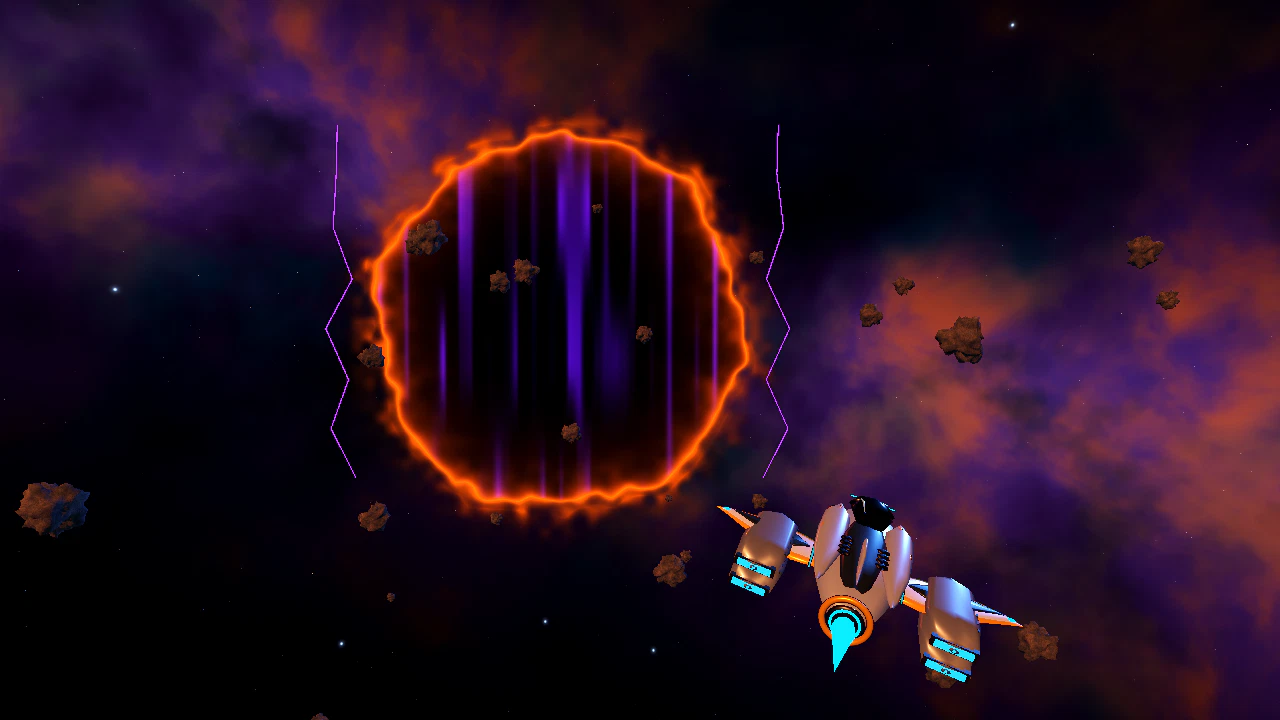
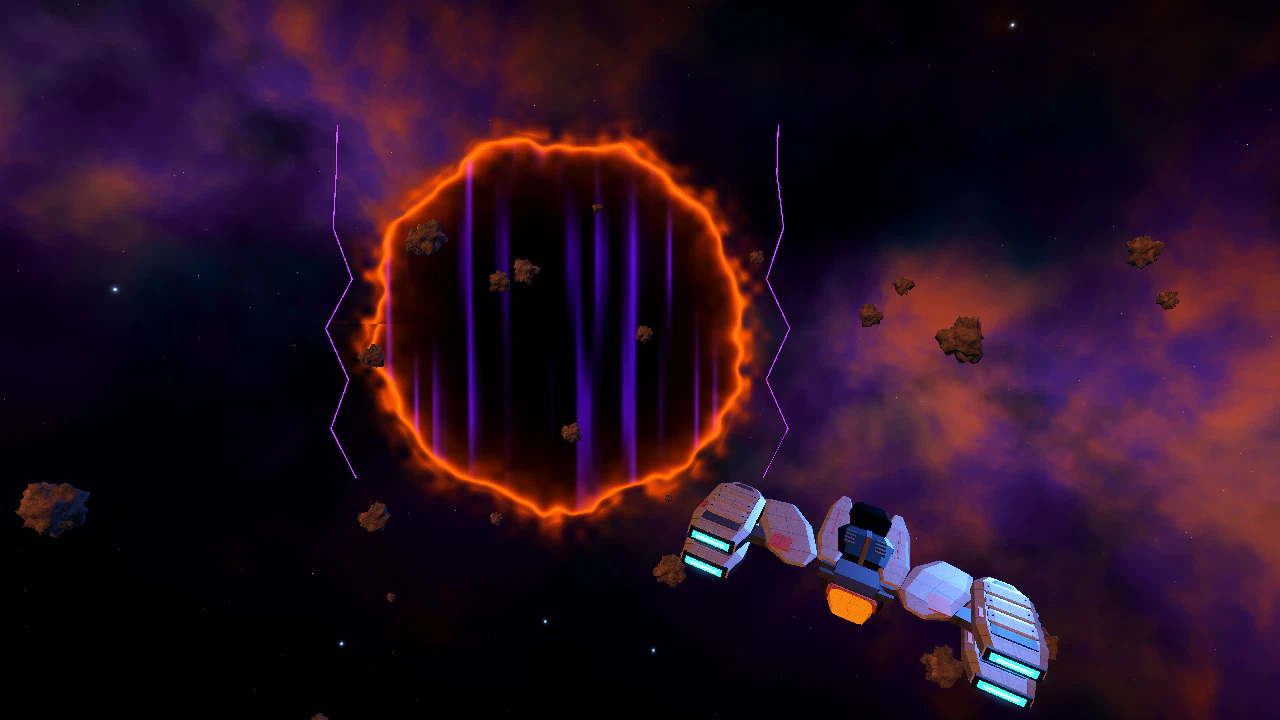
Rebuild fleet silhouettes and orbital harbours with industrial hard-surface geometry
Replace rounded hulls with chamfered armour, exposed spars/conduits, four separate engine cassettes, layered panels, fasteners and panel wear. Rebuild orbital harbours as open docking gantries and move the chase camera closer and lower. Preserve classes, compatible liveries and gameplay attachments.

Validation: 326 Godot checks, 22 backend tests, 83 model pairs and inspected native in-engine reference/chase-camera renders.

Changed region(s): [[0.25, 0.1528, 0.8438, 1.0]]

diff --git a/tools/build_release.py b/tools/build_release.py
@@ -40,7 +40,7 @@ def main():
         if platform=='linux':(folder/name).chmod(0o755)
         cfg='[server]\napi_url='+json.dumps(args.api_url)+'\ncombat_host='+json.dumps(args.combat_host)+'\ncombat_port='+str(args.combat_port)+'\n'
         (folder/'server.cfg').write_text(cfg)
-        (folder/'PLAY.txt').write_text('Galactic Dominion v0.23 alpha\n\nRun '+name+'. Godot and Python are not required for players.\nChoose My Planet / Creature Sanctuary to raise your creatures, Planet Expeditions to explore with a little bot, Free Roam for solo spaceflight or Online to join your host.\nOnline progress is separate from local progress.\nSee https://github.com/trentsmith/Galactic-Dominion for controls and hosting.\n')
+        (folder/'PLAY.txt').write_text('Galactic Dominion v0.24 alpha\n\nRun '+name+'. Godot and Python are not required for players.\nChoose My Planet / Creature Sanctuary to raise your creatures, Planet Expeditions to explore with a little bot, Free Roam for solo spaceflight or Online to join your host.\nOnline progress is separate from local progress.\nSee https://github.com/trentsmith/Galactic-Dominion for controls and hosting.\n')
         if (ROOT/'GODOT_LICENSE.txt').exists():shutil.copy2(ROOT/'GODOT_LICENSE.txt',folder/'GODOT_LICENSE.txt')
         title='Windows' if platform=='windows' else 'Linux'
         package=out/f'Galactic-Dominion-{title}.zip';pack(folder,package);outputs.append(package)

diff --git a/server/service.py b/server/service.py
@@ -355,7 +355,7 @@ class Store:
         return {'closed': mid}
 
 class Handler(BaseHTTPRequestHandler):
-    server_version = 'GalacticDominion/0.23'
+    server_version = 'GalacticDominion/0.24'
     def log_message(self, *_): pass
     def do_GET(self): self.handle_api('GET')
     def do_POST(self): self.handle_api('POST')
@@ -366,7 +366,7 @@ class Handler(BaseHTTPRequestHandler):
             data = json.loads(self.rfile.read(length)) if length else {}
             if not isinstance(data, dict): raise ServiceError('Expected a JSON object')
             url = urlparse(self.path); path = url.path; store = self.server.store
-            if method == 'GET' and path == '/health': result = {'ok': True, 'version': '0.23.0'}
+            if method == 'GET' and path == '/health': result = {'ok': True, 'version': '0.24.0'}
             elif method == 'GET' and path == '/profiles': result = store.public(parse_qs(url.query).get('name', [''])[0])
             elif method == 'GET' and path == '/catalog': result = CATALOG
             elif method == 'POST' and path in ['/register','/login']:

diff --git a/README.md b/README.md
@@ -1,6 +1,14 @@
-# Galactic Dominion — Planet Creature Battles and Rift Ships
+# Galactic Dominion — Industrial Fleet and Orbital Shipyards
 
 A Godot 4.x 3D space game prototype with cute original cartoon ships, orbiting alien companions, offline/online free roam, Fleet Royale, exploration, a persistent fleet hangar, collectible crew, interchangeable components, rare appearances, server-hosted 3v3 combat, public online profiles and a player marketplace. Uses original procedural 3D meshes and GDScript. Validated with Godot 4.6.3. No plugins or paid assets are required. Offline modes require no network access.
+
+## Industrial fleet redesign
+
+The shared ship bodies are now built from chamfered rectangular armour rather than rounded profiles. The silhouette has a compact cockpit, exposed wing spars, power conduits, four separated engine cassettes, recessed cyan engine strips, overlapping plates, fasteners and subtle panel wear. Standard ships have no decorative spheres or faces. All five classes and compatible collectible liveries use the new underlying hull; themed skin accessories remain available. Functioning engine, muzzle, canopy and shield nodes are preserved.
+
+Orbital harbours use **open docking gantries and service decks**, replacing the giant blue berths and gold hoops visible in the previous chase view. The flight camera is closer and lower, making the player ship easier to read. Gameplay and ship statistics remain the same. This is a stronger procedural visual redesign, not a claim of production-quality reference-image rendering.
+
+![Actual gameplay chase-camera render](docs/images/shipyard-flight.webp)
 
 ## Wilderness expansion
 
@@ -10,7 +18,7 @@ Offline spaceflight now has 45 ships: your three ships, 21 patrols and 21 civili
 
 ## Download and play without Godot
 
-The v0.23 alpha release is built automatically on GitHub. Open **[Downloads](https://github.com/trentsmith/Galactic-Dominion/releases/tag/v0.23.0)** and choose:
+The v0.24 alpha release is built automatically on GitHub. Open **[Downloads](https://github.com/trentsmith/Galactic-Dominion/releases/tag/v0.24.0)** and choose:
 
 - **Galactic-Dominion-Windows.zip** for players: extract the ZIP and run `GalacticDominion.exe`. Godot and Python are not needed.
 - **Galactic-Dominion-Server-Windows.zip** for the host: extract it and double-click `Start-Server-Windows.bat`. The package includes a portable Python runtime and the exported game engine. Keep its window open.
@@ -491,3 +499,7 @@ The same scenario also ran through the native OpenGL window with the normal inpu
 527 Godot checks passed across creature battle, ship-only outpost, world war, free roam, surface/capture, sanctuary, wilderness, all-livery and art suites. Backend: 22 unittest checks passed. Two authenticated online clients verified that space creature deployment is rejected and ship conquest replicates. Native Godot reference-inspired space and creature battle renders were generated. Windows GUI performance and online planet battles are not tested or implemented.
 
 The rift filaments use two shared mesh actors instead of thousands of cylinder nodes. Match loading temporarily uses a bounded longer network timeout; normal peer timeouts return after loading. The online outpost integration test passed again after this optimization.
+
+### v0.24 validation
+
+326 Godot checks passed across celestial art, all-livery fitting, reference models, free roam, command deck, starlight art, smoke and planet creature combat suites. Backend: 22 unittest checks passed. Native OpenGL reference and actual chase-camera renders were generated and inspected. Windows GUI remains untested.

diff --git a/docs/RELEASE.md b/docs/RELEASE.md
@@ -1,10 +1,12 @@
-Galactic Dominion v0.23 — Planet Creature Battles and Rift Ships
+Galactic Dominion v0.24 — Industrial Fleet and Orbital Shipyards
 
-- Deploy up to three owned sanctuary creatures on planet expeditions. N selects, R deploys, V attacks tracked wildlife, Z recalls. Esc includes party commands and rest at the landing ship.
-- Autonomous creature movement, attacks, nine named species abilities, six affinities, strengths/weaknesses, HP/attack/defense/speed, persistent experience and levels up to 50.
-- Wildlife fights back and uses abilities. Companion attacks leave wildlife capturable. Fainted companions remain owned.
-- Remove space creature garrisons and deployment; ships now capture outposts. Online legacy deployment requests are refused.
-- Redesign all five standard ship classes with mechanical armour, dark face-free canopies, split engine nacelles and cyan exhaust. Preserve collectible liveries.
-- Add an animated fiery anomaly and violet energy filaments in Dreaming Rift, with warmer space scenery.
+A stronger hard-surface redesign based on the reference and the actual gameplay screenshot:
 
-Extract Galactic-Dominion-Windows.zip and run GalacticDominion.exe. Older local saves receive level-one defaults. Update both clients and host to v0.23. Surface creature battles are single-player and real-time; online planet creature battles and production-quality reference-image graphics remain future work. Windows GUI performance is untested on the Linux development machine.
+- Compact chamfered hull, dark canopy, exposed structural spars and power conduits.
+- Four separated rectangular engine cassettes with cyan strips, bright cores, layered plates, fasteners and soft exhaust halos.
+- Subtle generated panel wear, steel and ceramic armour, restrained copper markings.
+- Open orbital docking gantries and service decks replacing the oversized blue harbour pods and gold hoops.
+- A closer, lower chase camera makes the new silhouette visible during flight.
+- All five classes and existing compatible liveries retain their gameplay attachments and statistics.
+
+Extract Galactic-Dominion-Windows.zip and run GalacticDominion.exe. Existing saves work; update clients and host together to v0.24. Planet creature battles and progression from v0.23 remain available. The actual in-engine reference and chase-camera previews are included in the repository. Windows GUI performance remains untested; the art remains a procedural prototype.

diff --git a/server/README.md b/server/README.md
@@ -4,7 +4,7 @@ Requires **Python 3.10+** and the standard **Godot 4.x** executable (tested with
 
 ## One-click Windows host package
 
-Download **Galactic-Dominion-Server-Windows.zip** from [the v0.23 release](https://github.com/trentsmith/Galactic-Dominion/releases/tag/v0.23.0), extract it, and double-click **Start-Server-Windows.bat**. Godot and Python do not need separate installation: the package includes the exported game engine and a portable official Python runtime. Do not run files from inside the ZIP preview. Keep the window open; Ctrl+C stops both servers.
+Download **Galactic-Dominion-Server-Windows.zip** from [the v0.24 release](https://github.com/trentsmith/Galactic-Dominion/releases/tag/v0.24.0), extract it, and double-click **Start-Server-Windows.bat**. Godot and Python do not need separate installation: the package includes the exported game engine and a portable official Python runtime. Do not run files from inside the ZIP preview. Keep the window open; Ctrl+C stops both servers.
 
 The server window prints the PC's LAN addresses. Friends on your same network run the player download, open Online, put that IP in Combat Server Address and click **Use This Address For A Local-Network Host**. The shortcut sets the account URL to `http://HOST:8080`. Clients on the hosting PC can use `127.0.0.1`. Connection preferences remember the address and username.
 
@@ -34,7 +34,7 @@ Equip an owned alien in **Online Fleet → Crew** before joining. Its companion 
 
 The host also runs recurring Crimson/Pelagian/Eldritch invasions, hostile ion storms and a shared 50-creature army limit. M shows a seven-region star chart, raid briefing and army orders. G within 100m surveys a landmark for the session, without inventory rewards. Online landing onto solo surfaces is disabled.
 
-Sessions close when their last human leaves. Accounts and collections persist, but world positions and patrol waves are not restored after restarting the server. The same v0.23 game build is required on the server and every client.
+Sessions close when their last human leaves. Accounts and collections persist, but world positions and patrol waves are not restored after restarting the server. The same v0.24 game build is required on the server and every client.
 
 ## Explicit launch command
 

diff --git a/CHANGELOG.md b/CHANGELOG.md
@@ -1,3 +1,7 @@
+# v0.24 — Industrial Fleet and Orbital Shipyards
+
+Replace rounded ship profiles with chamfered structural hulls, four separated engine cassettes, exposed machinery, overlapping armour, panel wear and soft exhaust halos. Replace large blue orbital harbour pods with open docking gantries. Move the chase camera closer and lower.
+
 # v0.23 — Planet Creature Battles and Rift Ships
 
 Move sanctuary creature combat onto planet expeditions with AI abilities, affinities and persistent levels. Optimize rift filaments into two meshes and give world loading bounded network timeout grace. Remove orbital creature armies while retaining ship outpost capture. Redesign standard ships as mechanical spacecraft and add Dreaming Rift anomaly scenery.

diff --git a/art/models/README.md b/art/models/README.md
@@ -1,3 +1,5 @@
+Current ship exports use chamfered industrial hulls and generated panel-wear textures. Textures are embedded in the GLB and bundled Godot scenes; PNG sidecars extracted during editor import are generated cache files.
+
 # Editable 3D models
 
 Run `godot --headless --path . --script res://tools/export_models.gd` to generate 83 complete models, including every non-standard livery on all five ship classes: Orbitot Fleet Companion, Glimbloom Fleet Companion, Pixlet Pebble Scout, Lunaflutter Moon Moth, Lunaflutter Scout, Cinderbit Comet Pup, Cinderbit Scout, five standard ship classes, nine base fauna species, eighteen original Kindred/Radiant growth forms and a pearl/gold docking station.
